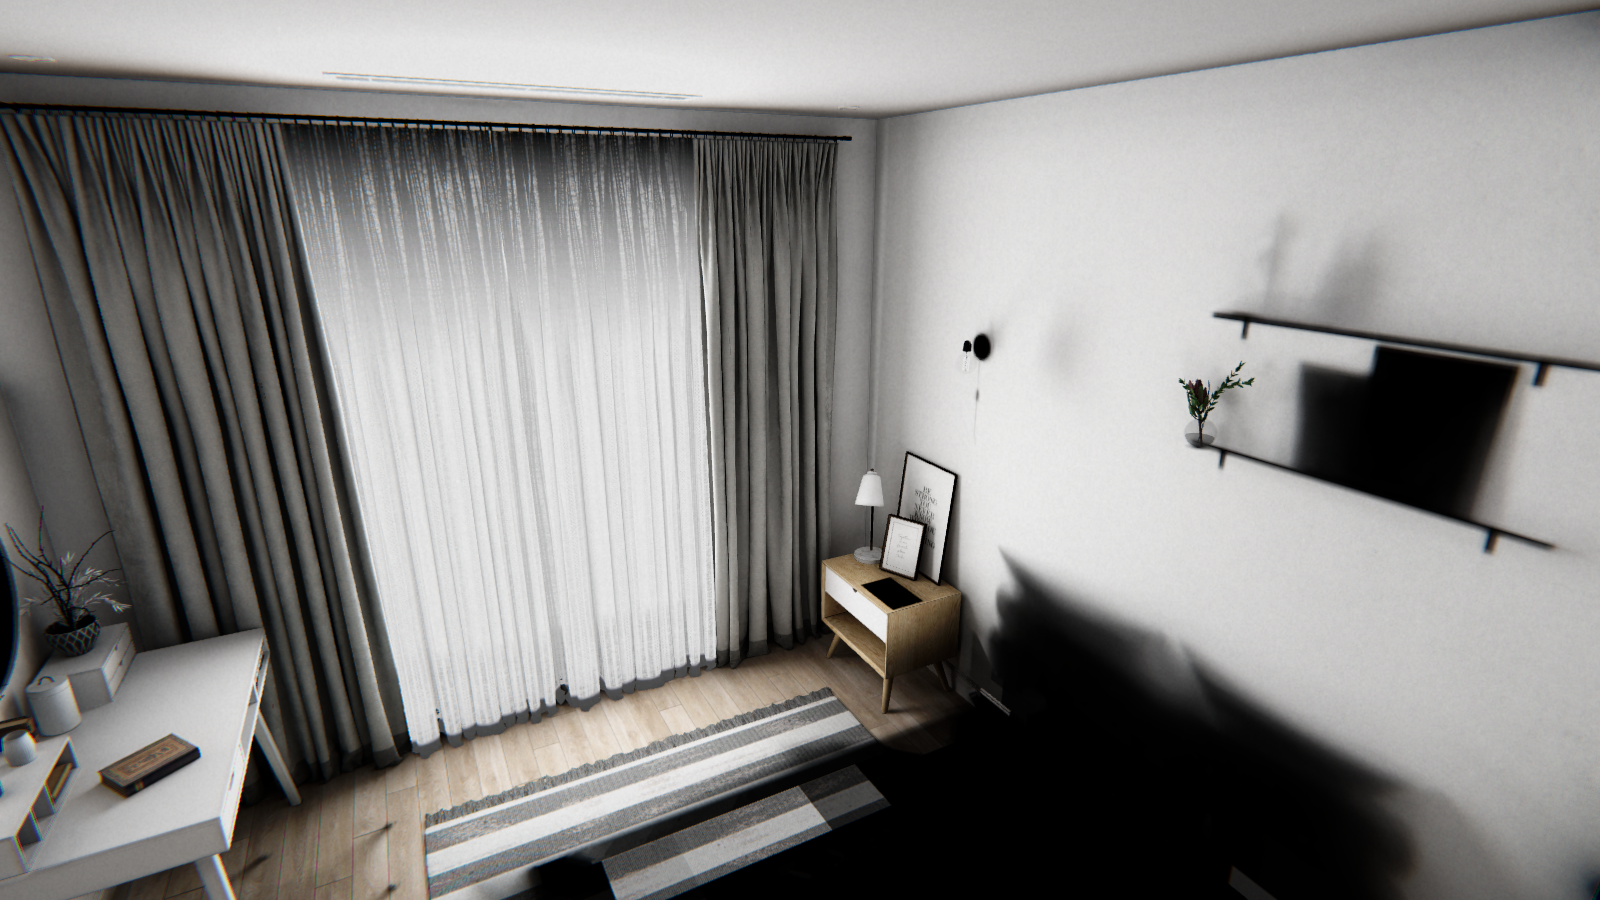
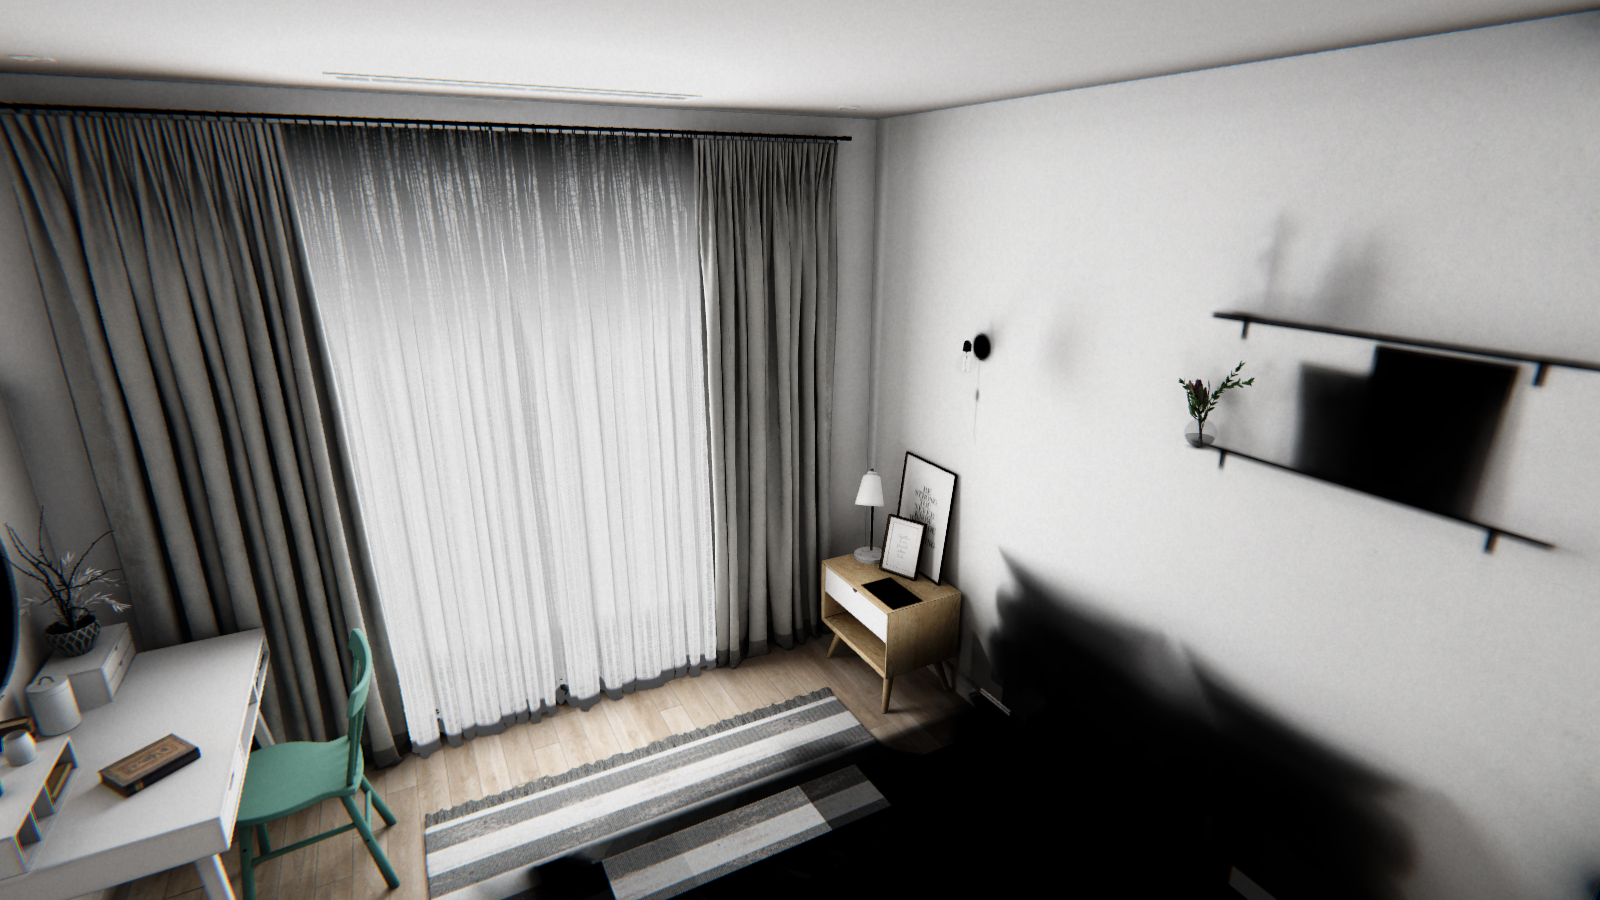
feat(scene): 还原床（HideBedForTest = false），与椅子一起测试真实通行性
此前床被隐藏（实验模式），「去门口」才能成立。本次床与椅子都保留，用来验证：
- 栅格 A* 在真实家具布局下能不能找到窗带 -> 门口的路线
- 锚点自检（床包围盒）与连线净空检查会报什么
预期（按此前实测）：西侧通道只有约 0.20m，家具总占位 3.56m 超过房间 3.52m，
很可能出现"锚点不可达 / 路线绕床失败 / walk_timeout"。

验证：Build Apartment Demo 后看 Console 的锚点与连线提示、grid_built 障碍数，
再 Play 走「去门口」「去窗边」。

Changed region(s): [[0.125, 0.6844, 0.25, 1.0]]

diff --git a/DawnAndDusk/Assets/Editor/ApartmentSceneBuilder.cs b/DawnAndDusk/Assets/Editor/ApartmentSceneBuilder.cs
@@ -24,7 +24,8 @@ public static class ApartmentSceneBuilder
     static readonly Vector3 StandUpPos = new Vector3(3.53f, 0.05f, 3.28f);
 
     /// <summary>实验开关：把床整组藏掉（含床架），验证"她过不来"到底是床挡的还是逻辑问题。</summary>
-    const bool HideBedForTest = true;
+    // 2026-11-15 03:40：床与椅子都还原（false），观察她会不会被椅子/床脚挡住
+    const bool HideBedForTest = false;
 
     /// <summary>目标身高（米）：玩家 175cm → 站立视线 163cm；鲸鲸 162cm。</summary>
     const float PlayerEyeHeight = 1.63f;
